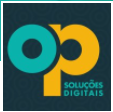
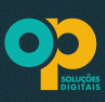
added images and changed cards

Changed region(s): [[0.0, 0.0, 1.0, 1.0], [0.1714, 0.2941, 0.3714, 0.5], [0.2286, 0.4412, 0.3714, 0.5294]]

diff --git a/src/components/MyWork/index.js b/src/components/MyWork/index.js
@@ -1,176 +1,85 @@
 import React from "react";
+import LeCodeIcon from "../../img/LeCode.png";
+import UnimontesIcon from "../../img/Unimontes.png";
+import OPPIcon from "../../img/OPP.png";
+
 
 export default function Mywork() {
   return (
     <>
-      <section class="bg-white dark:bg-gray-900">
-        <div class="container px-6 py-10 mx-auto">
-          <h1 class="text-6x1 font-semibold text-gray-800 capitalize lg:text-4xl dark:text-white">
-            <span class="hover:delay-150 hover:text-royalblue transition delay-150 duration-300">My Works</span>
+      <section className="bg-white dark:bg-gray-900">
+        <div className="container px-6 py-10 mx-auto">
+          <h1 className="text-6x1 font-semibold text-gray-800 capitalize lg:text-4xl dark:text-white">
+            <span className="hover:delay-150 hover:text-royalblue transition delay-150 duration-300">
+              My Works
+            </span>
           </h1>
 
-          <p class="mt-4 text-gray-600 xl:mt-6 ">
-          Things I've done or learned during my journey as an information technology professional.
+          <p className="mt-4 text-gray-600 xl:mt-6 ">
+            Things I've done or learned during my journey as an information
+            technology professional.
           </p>
 
-          <div class="grid grid-cols-1 gap-8 mt-8 xl:mt-12 xl:gap-12 md:grid-cols-2 xl:grid-cols-3">
-            <div class="p-8 space-y-3 border-2 border-royalblue dark:border-blue-300 rounded-xl">
-              <span class="inline-block text-royalblue dark:text-blue-400">
-                <svg
-                  xmlns="http://www.w3.org/2000/svg"
-                  class="w-8 h-8"
-                  fill="none"
-                  viewBox="0 0 24 24"
-                  stroke="currentColor"
-                >
-                  <path
-                    stroke-linecap="round"
-                    stroke-linejoin="round"
-                    stroke-width="2"
-                    d="M17.657 18.657A8 8 0 016.343 7.343S7 9 9 10c0-2 .5-5 2.986-7C14 5 16.09 5.777 17.656 7.343A7.975 7.975 0 0120 13a7.975 7.975 0 01-2.343 5.657z"
-                  />
-                  <path
-                    stroke-linecap="round"
-                    stroke-linejoin="round"
-                    stroke-width="2"
-                    d="M9.879 16.121A3 3 0 1012.015 11L11 14H9c0 .768.293 1.536.879 2.121z"
-                  />
-                </svg>
-              </span>
+          <div className="grid grid-cols-1 gap-8 mt-8 xl:mt-12 xl:gap-12 md:grid-cols-2 xl:grid-cols-3">
 
-              <h1 class="text-2xl font-semibold text-gray-700 capitalize dark:text-white">
-                elegant Dark Mode
+            <div className="p-8 space-y-3 border-2 border-royalblue dark:border-blue-300 rounded-xl">
+              <div className="inline-block ">
+                <img
+                  src={LeCodeIcon}
+                  alt="Lecode company icon miniature version "
+                  className="w-20 h-20 rounded-lg"
+                />
+              </div>
+              <h1 className="text-2xl font-semibold text-black capitalize dark:text-white">
+                LeCode
               </h1>
-
-              <p class="text-gray-500 dark:text-gray-300">
-                Lorem ipsum dolor sit amet consectetur adipisicing elit.
-                Provident ab nulla quod dignissimos vel non corrupti doloribus
-                voluptatum eveniet
+              <p className="text-gray-500 dark:text-gray-300">
+                Freelance front-end web and software developer specializing in
+                building (and sometimes designing) exceptional, high-quality,
+                modern websites and applications.
               </p>
-
-              <a
-                href="#"
-                class="inline-flex p-2 text-royalblue capitalize transition-colors duration-200 transform bg-blue-100 rounded-full dark:bg-blue-500 dark:text-white hover:underline hover:text-blue-600 dark:hover:text-blue-500"
-              >
-                <svg
-                  xmlns="http://www.w3.org/2000/svg"
-                  class="w-6 h-6"
-                  fill="none"
-                  viewBox="0 0 24 24"
-                  stroke="currentColor"
-                >
-                  <path
-                    stroke-linecap="round"
-                    stroke-linejoin="round"
-                    stroke-width="2"
-                    d="M13 9l3 3m0 0l-3 3m3-3H8m13 0a9 9 0 11-18 0 9 9 0 0118 0z"
-                  />
-                </svg>
-              </a>
             </div>
 
-            <div class="p-8 space-y-3 border-2 border-royalblue dark:border-blue-300 rounded-xl">
-              <span class="inline-block text-royalblue dark:text-blue-400">
-                <svg
-                  xmlns="http://www.w3.org/2000/svg"
-                  class="w-8 h-8"
-                  fill="none"
-                  viewBox="0 0 24 24"
-                  stroke="currentColor"
-                >
-                  <path
-                    stroke-linecap="round"
-                    stroke-linejoin="round"
-                    stroke-width="2"
-                    d="M11 4a2 2 0 114 0v1a1 1 0 001 1h3a1 1 0 011 1v3a1 1 0 01-1 1h-1a2 2 0 100 4h1a1 1 0 011 1v3a1 1 0 01-1 1h-3a1 1 0 01-1-1v-1a2 2 0 10-4 0v1a1 1 0 01-1 1H7a1 1 0 01-1-1v-3a1 1 0 00-1-1H4a2 2 0 110-4h1a1 1 0 001-1V7a1 1 0 011-1h3a1 1 0 001-1V4z"
-                  />
-                </svg>
-              </span>
 
-              <h1 class="text-2xl font-semibold text-gray-700 capitalize dark:text-white">
-                Easy to customiztions
+            <div className="p-8 space-y-3 border-2 border-royalblue dark:border-blue-300 rounded-xl">
+              <div className="inline-block ">
+                <img
+                  src={UnimontesIcon}
+                  alt="Unimontes icon miniature version "
+                  className="w-20 h-20 rounded-lg"
+                />
+              </div>
+
+              <h1 className="text-2xl font-semibold text-black capitalize dark:text-white">
+                Unimontes
               </h1>
 
-              <p class="text-gray-500 dark:text-gray-300">
-                Lorem ipsum dolor sit amet consectetur adipisicing elit.
-                Provident ab nulla quod dignissimos vel non corrupti doloribus
-                voluptatum eveniet
+              <p className="text-gray-500 dark:text-gray-300">
+                Back end developer in the technology and information sector at
+                the state university of Montes Claros
               </p>
-
-              <a
-                href="#"
-                class="inline-flex p-2 text-royalblue capitalize transition-colors duration-200 transform bg-blue-100 rounded-full dark:bg-blue-500 dark:text-white hover:underline hover:text-blue-600 dark:hover:text-blue-500"
-              >
-                <svg
-                  xmlns="http://www.w3.org/2000/svg"
-                  class="w-6 h-6"
-                  fill="none"
-                  viewBox="0 0 24 24"
-                  stroke="currentColor"
-                >
-                  <path
-                    stroke-linecap="round"
-                    stroke-linejoin="round"
-                    stroke-width="2"
-                    d="M13 9l3 3m0 0l-3 3m3-3H8m13 0a9 9 0 11-18 0 9 9 0 0118 0z"
-                  />
-                </svg>
-              </a>
             </div>
 
-            <div class="p-8 space-y-3 border-2 border-royalblue dark:border-blue-300 rounded-xl">
-              <span class="inline-block text-royalblue dark:text-blue-400">
-                <svg
-                  xmlns="http://www.w3.org/2000/svg"
-                  class="w-8 h-8"
-                  fill="none"
-                  viewBox="0 0 24 24"
-                  stroke="currentColor"
-                >
-                  <path
-                    stroke-linecap="round"
-                    stroke-linejoin="round"
-                    stroke-width="2"
-                    d="M5 3v4M3 5h4M6 17v4m-2-2h4m5-16l2.286 6.857L21 12l-5.714 2.143L13 21l-2.286-6.857L5 12l5.714-2.143L13 3z"
-                  />
-                </svg>
-              </span>
-
-              <h1 class="text-2xl font-semibold text-gray-700 capitalize dark:text-white">
-                Simple & clean designs
+            <div className="p-8 space-y-3 border-2 border-royalblue dark:border-blue-300 rounded-xl">
+              <div className="inline-block ">
+                <img
+                  src={OPPIcon}
+                  alt="Opportunity Soluções Digitais icon miniature version "
+                  className="w-20 h-20 rounded-lg"
+                />
+              </div>
+              <h1 className="text-2xl font-semibold text-black capitalize dark:text-white">
+              Opportunity Soluções Digitais
               </h1>
-
-              <p class="text-gray-500 dark:text-gray-300">
-                Lorem ipsum dolor sit amet consectetur adipisicing elit.
-                Provident ab nulla quod dignissimos vel non corrupti doloribus
-                voluptatum eveniet
+              <p className="text-gray-500 dark:text-gray-300">
+                Freelance front-end web and software developer specializing in
+                building (and sometimes designing) exceptional, high-quality,
+                modern websites and applications.
               </p>
-
-              <a
-                href="#"
-                class="inline-flex p-2 text-royalblue capitalize transition-colors duration-200 transform bg-blue-100 rounded-full dark:bg-blue-500 dark:text-white hover:underline hover:text-blue-600 dark:hover:text-blue-500"
-              >
-                <svg
-                  xmlns="http://www.w3.org/2000/svg"
-                  class="w-6 h-6"
-                  fill="none"
-                  viewBox="0 0 24 24"
-                  stroke="currentColor"
-                >
-                  <path
-                    stroke-linecap="round"
-                    stroke-linejoin="round"
-                    stroke-width="2"
-                    d="M13 9l3 3m0 0l-3 3m3-3H8m13 0a9 9 0 11-18 0 9 9 0 0118 0z"
-                  />
-                </svg>
-              </a>
             </div>
           </div>
         </div>
       </section>
-
-     
     </>
   );
 }
